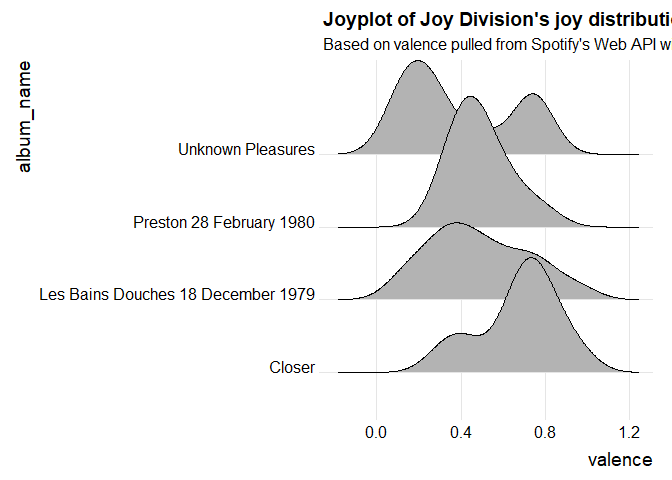
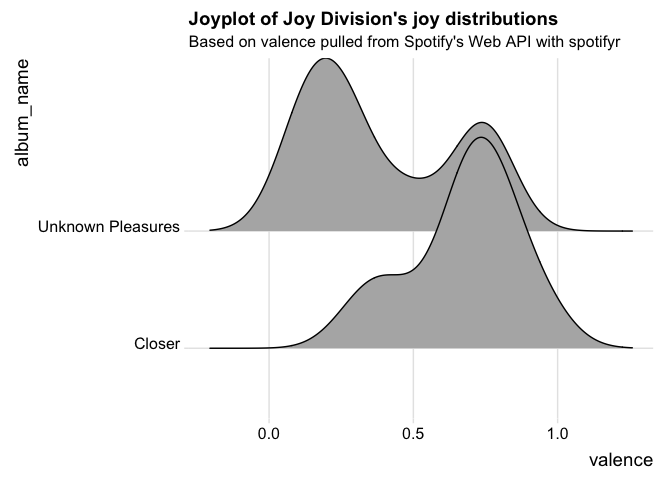
add projects

diff --git a/README.md b/README.md
@@ -76,11 +76,11 @@ beatles %>%
 
 | key\_mode |  n |
 | :-------- | -: |
-| D major   | 77 |
-| G major   | 76 |
-| A major   | 67 |
-| E major   | 67 |
-| C major   | 52 |
+| G major   | 92 |
+| D major   | 89 |
+| C major   | 81 |
+| E major   | 77 |
+| A major   | 72 |
 
 ### Get your most recently played tracks
 
@@ -90,13 +90,13 @@ get_my_recently_played(limit = 5) %>%
     kable()
 ```
 
-| track\_name        | artist\_name           | album\_name                                                | played\_at\_utc     |
-| :----------------- | :--------------------- | :--------------------------------------------------------- | :------------------ |
-| How Do I Know      | Here We Go Magic       | A Different Ship                                           | 2018-12-07 15:50:25 |
-| Pale Blue Eyes     | The Velvet Underground | The Velvet Underground (45th Anniversary / Deluxe Edition) | 2018-12-07 15:45:54 |
-| And She Was        | Talking Heads          | Little Creatures                                           | 2018-12-07 15:40:14 |
-| Homewards          | Mndsgn                 | Yawn Zen                                                   | 2018-12-07 15:36:34 |
-| Mr. Tambourine Man | Bob Dylan              | Bringing It All Back Home                                  | 2018-12-07 15:35:52 |
+| track\_name                                 | artist\_name  | album\_name                                          | played\_at\_utc     |
+| :------------------------------------------ | :------------ | :--------------------------------------------------- | :------------------ |
+| Call Me                                     | Blondie       | Call Me                                              | 2019-02-17 17:21:00 |
+| Biggest Part Of Me (45 Version)             | Ambrosia      | Biggest Part Of Me / Livin’ On My Own \[Digital 45\] | 2019-02-17 02:15:22 |
+| Let’s Dance - Single Version \[Remastered\] | David Bowie   | Legacy                                               | 2019-02-17 02:12:27 |
+| Everywhere - 2017 Remaster                  | Fleetwood Mac | Tango In the Night (Deluxe)                          | 2019-02-17 02:11:11 |
+| Heart Of Glass - Special Mix                | Blondie       | Greatest Hits                                        | 2019-02-17 02:07:19 |
 
 ### Find your all time favorite artists
 
@@ -109,13 +109,13 @@ get_my_top_artists(time_range = 'long_term', limit = 5) %>%
     kable()
 ```
 
-| artist\_name | artist\_genres                                                                                                                                           |
-| :----------- | :------------------------------------------------------------------------------------------------------------------------------------------------------- |
-| Radiohead    | alternative rock, art rock, melancholia, modern rock, permanent wave, rock                                                                               |
-| Onra         | alternative hip hop, chillhop, ninja, trip hop, wonky                                                                                                    |
-| Flying Lotus | alternative hip hop, chillwave, electronic, escape room, glitch, glitch hop, hip hop, indie r\&b, indietronica, intelligent dance music, trip hop, wonky |
-| Teebs        | abstract beats, bass music, chillwave, indietronica, wonky                                                                                               |
-| Aphex Twin   | acid techno, ambient, drill and bass, electronic, fourth world, intelligent dance music, microhouse, trip hop                                            |
+| artist\_name | artist\_genres                                                                                                                     |
+| :----------- | :--------------------------------------------------------------------------------------------------------------------------------- |
+| Radiohead    | alternative rock, art rock, melancholia, modern rock, permanent wave, rock                                                         |
+| Onra         | alternative hip hop, chillhop, trip hop, wonky                                                                                     |
+| Flying Lotus | alternative hip hop, chillwave, electronic, escape room, glitch, glitch hop, hip hop, indietronica, intelligent dance music, wonky |
+| Teebs        | abstract beats, bass music, chillwave, wonky                                                                                       |
+| Aphex Twin   | ambient, electronic, fourth world, intelligent dance music, trip hop                                                               |
 
 ### Find your favorite tracks at the moment
 
@@ -125,13 +125,13 @@ get_my_top_tracks(time_range = 'short_term', limit = 5) %>%
     kable()
 ```
 
-| track\_name                | artist\_name    | album\_name    |
-| :------------------------- | :-------------- | :------------- |
-| Shattered Dreams           | Earl Sweatshirt | Some Rap Songs |
-| Nowhere2go                 | Earl Sweatshirt | Some Rap Songs |
-| Peanut                     | Earl Sweatshirt | Some Rap Songs |
-| The Mint (feat. Navy Blue) | Earl Sweatshirt | Some Rap Songs |
-| Red Water                  | Earl Sweatshirt | Some Rap Songs |
+| track\_name                                       | artist\_name | album\_name |
+| :------------------------------------------------ | :----------- | :---------- |
+| Spanish Pipedream                                 | John Prine   | John Prine  |
+| Illegal Smile                                     | John Prine   | John Prine  |
+| Your Flag Decal Won’t Get You Into Heaven Anymore | John Prine   | John Prine  |
+| Holocene                                          | Bon Iver     | Bon Iver    |
+| Pretty Good                                       | John Prine   | John Prine  |
 
 ### What’s the most joyful Joy Division song?
 
@@ -150,13 +150,13 @@ joy %>%
     kable()
 ```
 
-| track\_name                                   | valence |
-| :-------------------------------------------- | ------: |
-| These Days - Live                             |   0.949 |
-| Passover - 2007 Remastered Version            |   0.941 |
-| Colony - 2007 Remastered Version              |   0.808 |
-| Atrocity Exhibition - 2007 Remastered Version |   0.787 |
-| Incubation - Live                             |   0.785 |
+| track\_name                         | valence |
+| :---------------------------------- | ------: |
+| Passover - 2007 Remaster            |   0.941 |
+| Colony - 2007 Remaster              |   0.808 |
+| Atrocity Exhibition - 2007 Remaster |   0.787 |
+| A Means to an End - 2007 Remaster   |   0.752 |
+| Interzone - 2007 Remastered Version |   0.746 |
 
 Now if only there was some way to plot
 joy…
@@ -180,7 +180,7 @@ ggplot(joy, aes(x = valence, y = album_name)) +
     geom_joy() + 
     theme_joy() +
     ggtitle("Joyplot of Joy Division's joy distributions", subtitle = "Based on valence pulled from Spotify's Web API with spotifyr")
-#> Picking joint bandwidth of 0.0979
+#> Picking joint bandwidth of 0.106
 ```
 
 ![](man/figures/README-unnamed-chunk-9-1.png)<!-- -->
@@ -207,36 +207,44 @@ The coolest thing about making this package has definitely been seeing
 all the awesome stuff other people have done with it. Here are a few
 examples:
 
+[Exploring the Spotify API with R: A tutorial for beginners, by a
+beginner](https://msmith7161.github.io/what-is-speechiness/), Mia Smith
+
 [Sentiment analysis of musical taste: a cross-European
-comparison](http://paulelvers.com/post/emotionsineuropeanmusic/) - Paul
+comparison](http://paulelvers.com/post/emotionsineuropeanmusic/), Paul
 Elvers
 
 [Blue Christmas: A data-driven search for the most depressing Christmas
-song](https://caitlinhudon.com/2017/12/22/blue-christmas/) - Caitlin
+song](https://caitlinhudon.com/2017/12/22/blue-christmas/), Caitlin
 Hudon
 
 [KendRick
-LamaR](https://davidklaing.github.io/kendrick-lamar-data-science/) -
+LamaR](https://davidklaing.github.io/kendrick-lamar-data-science/),
 David K. Laing
 
 [Vilken är Kents mest deprimerande låt? (What is Kent’s most depressing
-song?)](http://dataland.rbind.io/2017/11/07/vilken-%C3%A4r-kents-mest-deprimerande-lat/)
-- Filip Wästberg
+song?)](http://dataland.rbind.io/2017/11/07/vilken-%C3%A4r-kents-mest-deprimerande-lat/),
+Filip Wästberg
 
-[Black Mirror Arcade Fire](http://thesociety.ru/arcadefire) - TheSociety
+[Чёрное зеркало Arcade Fire (Black Mirror Arcade
+Fire)](http://thesociety.ru/arcadefire), TheSociety
 
 [Sente-se triste quando ouve “Amar pelos dois”? Não é o único (Do you
 feel sad when you hear “Love for both?” You’re not
-alone)](http://rr.sapo.pt/especial/112355/sente-se-triste-quando-ouve-amar-pelos-dois-nao-e-o-unico)
-- Rui Barros, Rádio Renascença
+alone)](http://rr.sapo.pt/especial/112355/sente-se-triste-quando-ouve-amar-pelos-dois-nao-e-o-unico),
+Rui Barros, Rádio Renascença
+
+[Using Data to Find the Angriest Death Grips
+Song](https://towardsdatascience.com/angriest-death-grips-data-anger-502168c1c2f0),
+Evan Oppenheimer
 
 [Hierarchical clustering of David Bowie
-records](https://twitter.com/WireMonkey/status/1009915034246565891?s=19)
-- Alyssa Goldberg
+records](https://twitter.com/WireMonkey/status/1009915034246565891?s=19),
+Alyssa Goldberg
 
-[tayloR](https://medium.com/@simranvatsa5/taylor-f656e2a09cc3) - Simran
+[tayloR](https://medium.com/@simranvatsa5/taylor-f656e2a09cc3), Simran
 Vatsa
 
 [Long Distance Calling: Data Science meets
-Post-Rock…](https://sebastiankuhn.wordpress.com/2017/11/08/r-spotify-part-1-long-distance-calling/)
-- Sebastian Kuhn
+Post-Rock…](https://sebastiankuhn.wordpress.com/2017/11/08/r-spotify-part-1-long-distance-calling/),
+Sebastian Kuhn
